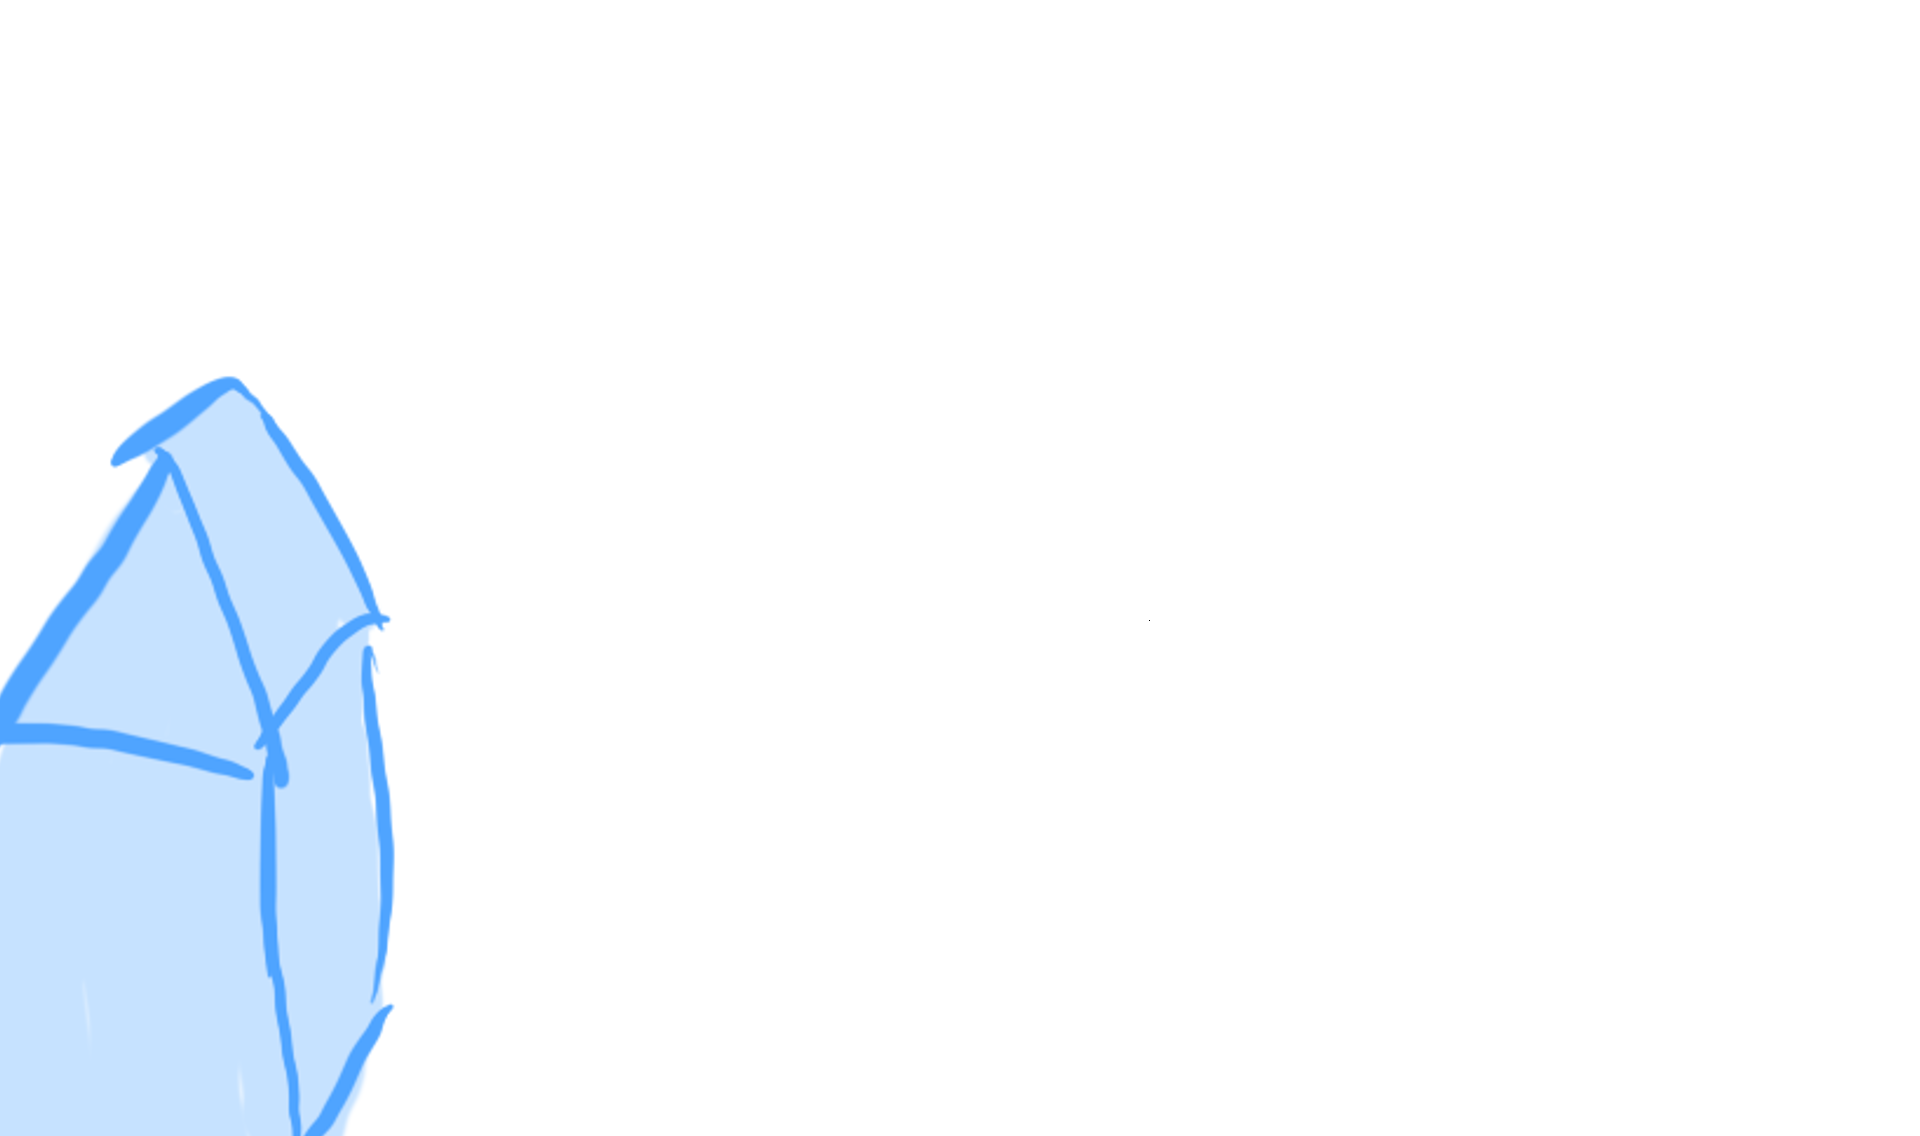
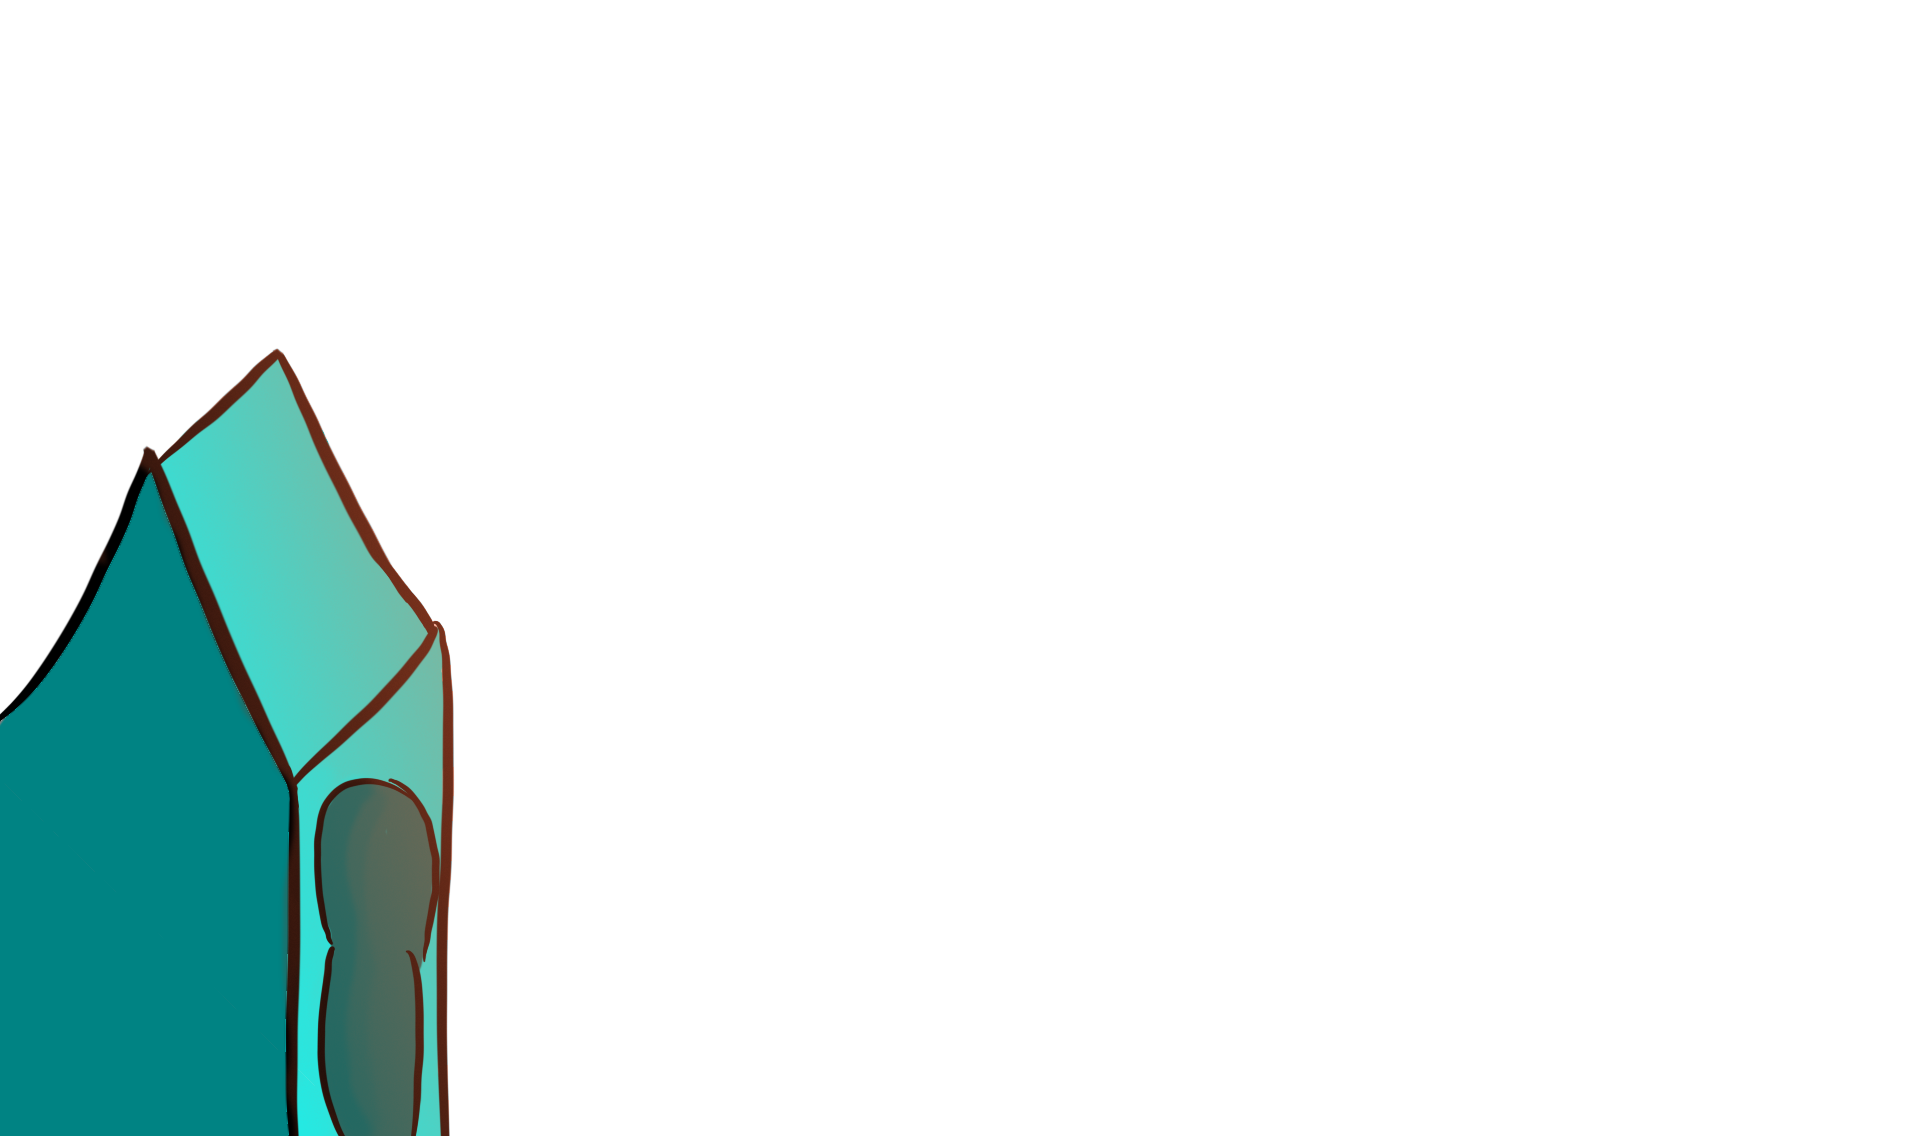
campfire images

Changed region(s): [[0.0, 0.3081, 0.25, 1.0]]

diff --git a/BasicMod-master/BasicMod-master/src/main/java/dannyandjannymod/MilkmanCharacter.java b/BasicMod-master/BasicMod-master/src/main/java/dannyandjannymod/MilkmanCharacter.java
@@ -65,7 +65,7 @@ public class MilkmanCharacter extends CustomPlayer {
 
     //private static final String[] orbTextures = { "dannyandjannymod/character/characterSelectButton.png" };
     public static final int ENERGY_PER_TURN = 3; // how much energy you get every turn
-    public static final String MY_CHARACTER_SHOULDER_2 = "dannyandjannymod/character/shoulder1.png"; // campfire pose
+    public static final String MY_CHARACTER_SHOULDER_2 = "dannyandjannymod/character/shoulder2.png"; // campfire pose
     public static final String MY_CHARACTER_SHOULDER_1 = "dannyandjannymod/character/shoulder1.png"; // another campfire pose
     public static final String MY_CHARACTER_CORPSE = "dannyandjannymod/character/characterCorpse.png"; // dead corpse
     public static final String MY_CHARACTER_SKELETON_ATLAS = "dannyandjannymod/character/MilkmanTest.atlas"; // spine animation atlas
